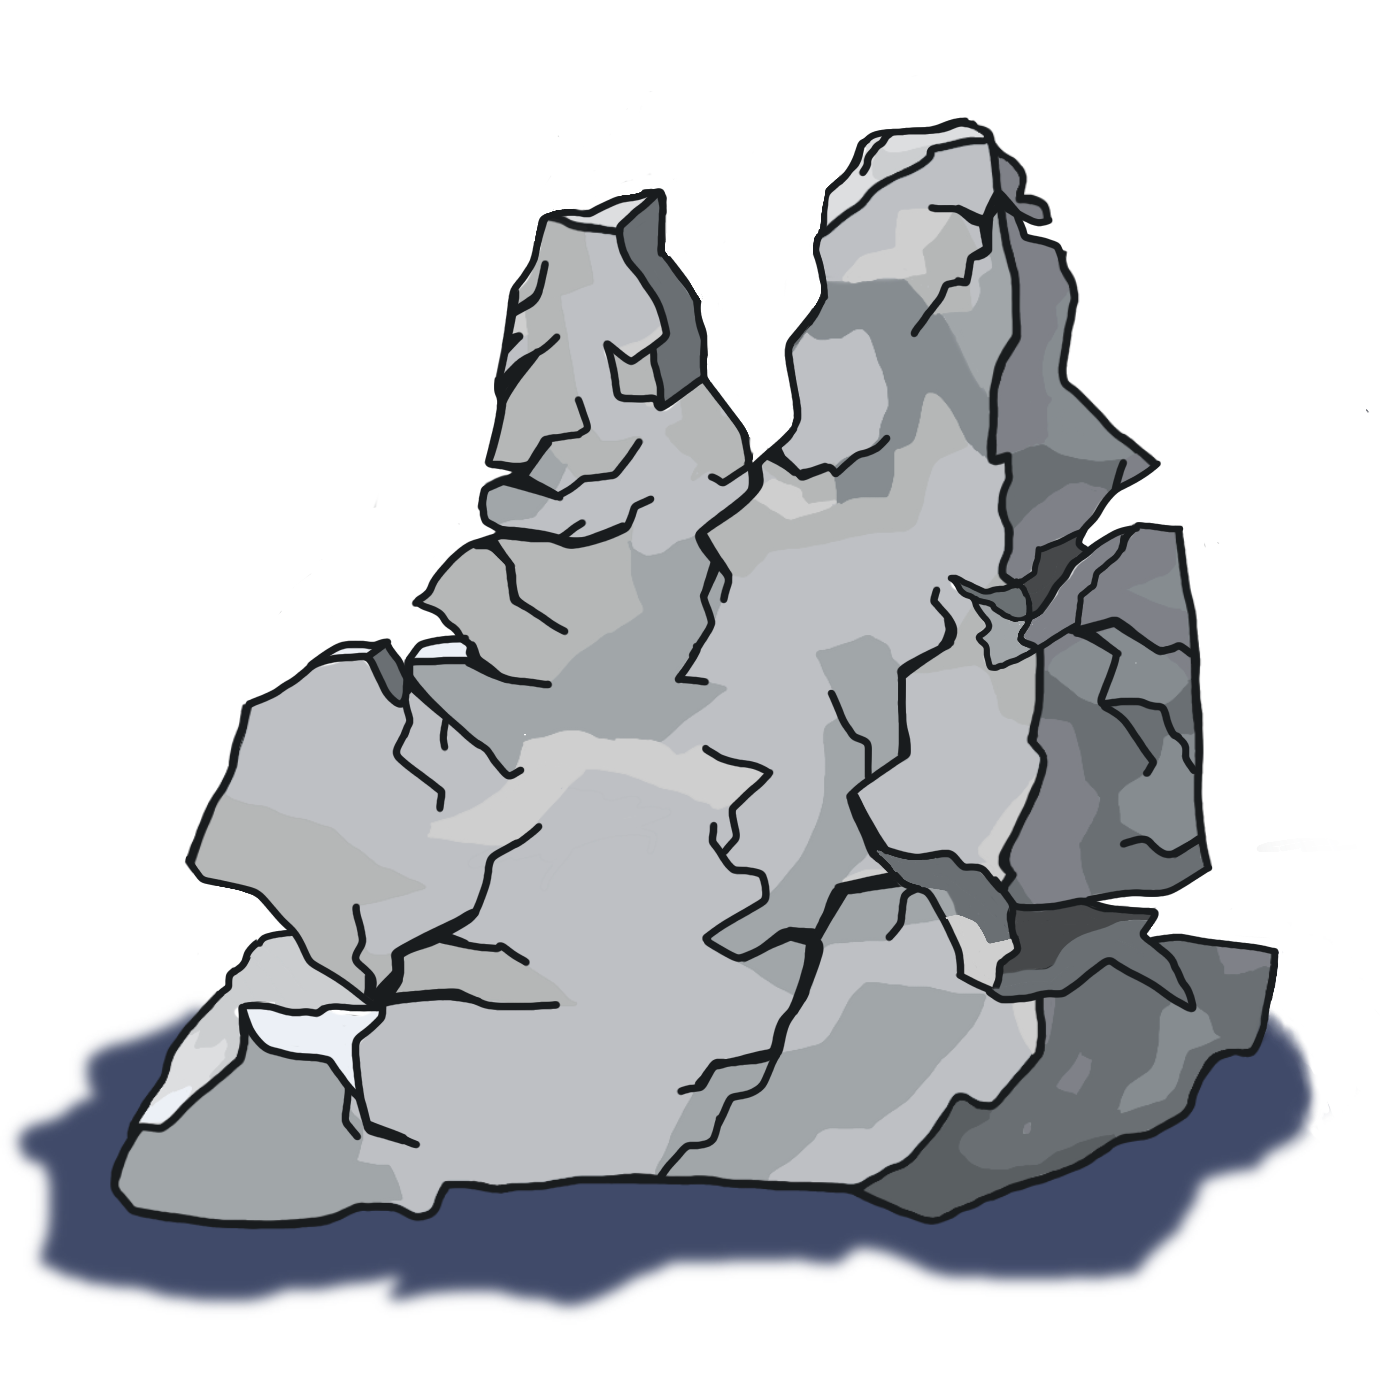
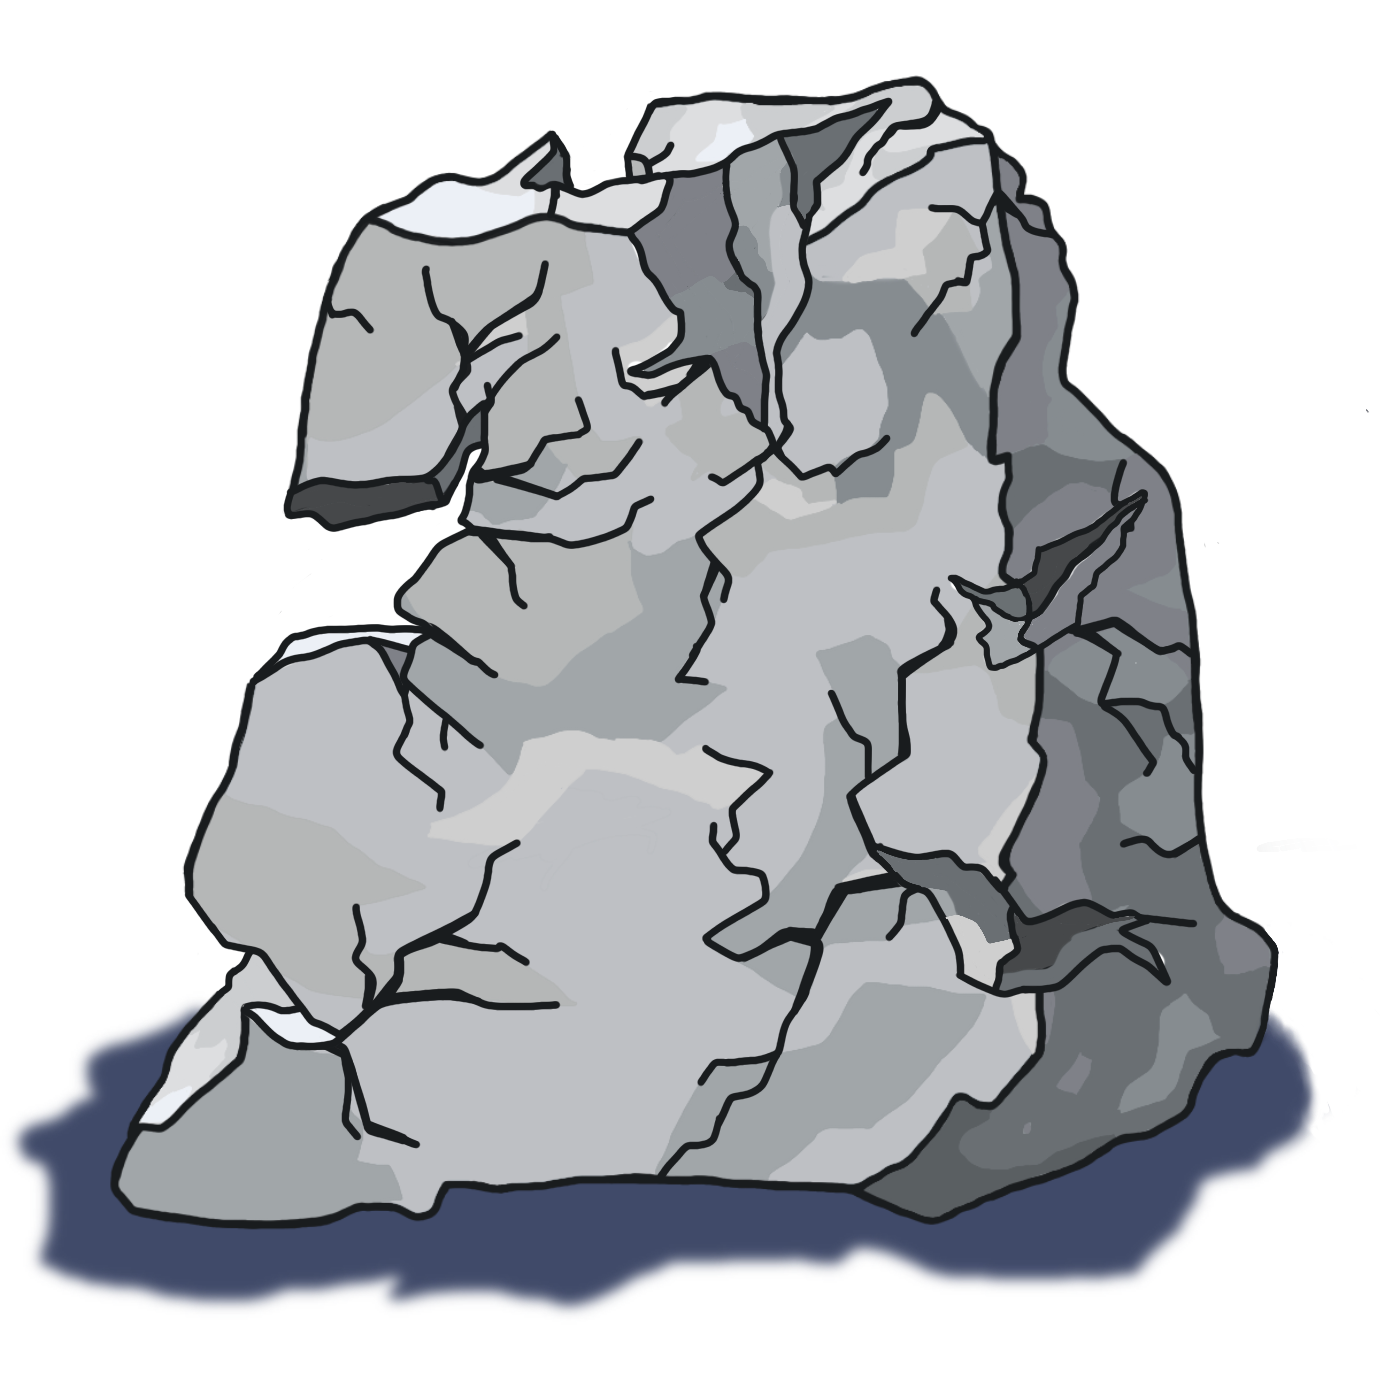
images added!

diff --git a/pages/ProgressPage.tsx b/pages/ProgressPage.tsx
@@ -8,7 +8,20 @@ import NavBar from "../components/NavBar"
 import Summary from "../components/Summary"
 
 // CUSTOM IMAGES
-import rockImage from "../images/rock.png"
+import week1_rock from "../images/rocks/week1.png"
+import week2_rock from "../images/rocks/week2.png"
+import week3_rock from "../images/rocks/week3.png"
+import week4_rock from "../images/rocks/week4.png"
+import week5_rock from "../images/rocks/week5.png"
+import week6_rock from "../images/rocks/week6.png"
+import week7_rock from "../images/rocks/week7.png"
+import week8_rock from "../images/rocks/week8.png"
+import week9_silver_rock from "../images/rocks/week9_silver.png"
+import week9_gold_rock from "../images/rocks/week9_gold.png"
+import week9_diamond_rock from "../images/rocks/week9_diamond.png"
+import silver from "../images/silver.png"
+import gold from "../images/gold.png"
+import diamond from "../images/diamond.png"
 
 // PAGES
 import HelpPage from "./HelpPage"
@@ -46,11 +59,11 @@ import {
 	getWeekNumber,
 } from "../backendFunctions"
 
-export default function ProgressPage({ navigation }: any) {
-  enum RockImage {
-    WEEK0_ROCK = "what"
-  }
+interface ImageObject {
+  [key: string]: string;
+}
 
+export default function ProgressPage({ navigation }: any) {
 	// REDUX
 	const dispatch = useAppDispatch()
 	const currentWeek = useAppSelector(selectCurrentWeek)
@@ -63,6 +76,31 @@ export default function ProgressPage({ navigation }: any) {
 	const currWeekCheck = calculateCurrentWeek(weeks, new Date())
 	const weekNumber = currentWeek === "" ? 0 : getWeekNumber(currentWeek)
 	const goal = calculateGoal(habit.goal, goalDecrement, weekNumber)
+
+	const images: ImageObject = {
+		week0: week1_rock,
+		week1: week2_rock,
+		week2: week3_rock,
+		week3: week4_rock,
+		week4: week5_rock,
+		week5: week6_rock,
+		week6: week7_rock,
+		week7: week8_rock,
+		week8_silver: week9_silver_rock,
+		week8_gold: week9_gold_rock,
+		week8_diamond: week9_diamond_rock,
+		week9_silver: silver,
+		week9_gold: gold,
+		week9_diamond: diamond,
+	}
+
+	function getImageByName(): any {
+		if (weekNumber < 9) {
+			return images[currentWeek]
+		} else {
+			return images[`${currentWeek}_${habit.gem}`]
+		} 
+	}
 
 	// NAVBAR FUNCTIONS
 	const capitalizedHabit = habit.habitName
@@ -86,13 +124,13 @@ export default function ProgressPage({ navigation }: any) {
 		dispatch(resetGoalDecrement())
 		dispatch(setResetTrue())
 		dispatch(resetWeeks())
-		dispatch(resetCurrentWeek())
 		setTimeout(() => {
 			navigation.navigate("CreateHabitLayout", { screen: "EnterHabitPage" })
 		}, 200)
-		setTimeout(() => {
-			dispatch(resetHabit())
-		}, 300)
+    setTimeout(() => {
+      dispatch(resetCurrentWeek())
+      dispatch(resetHabit())
+    }, 1000)
 	}
 
 	// WEEK UPDATE
@@ -114,6 +152,7 @@ export default function ProgressPage({ navigation }: any) {
 			sameWeekCheck()
 		}
 	}, [weeks, currentWeek])
+  console.log(weekNumber)
 
 	return (
 		<View style={styles.progressContainer}>
@@ -142,7 +181,7 @@ export default function ProgressPage({ navigation }: any) {
 							<Summary goal={goal} />
 						</Pressable>
 					</Modal>
-					<Image style={styles.progressRock} source={rockImage} />
+					<Image style={[styles.progressRock, currentWeek === "week9" ? styles.gemRock : {}]} source={getImageByName()} />
 				</Pressable>
 
 				{/* WHAT NOW MODAL */}

diff --git a/pages/QuestionPage.tsx b/pages/QuestionPage.tsx
@@ -141,14 +141,17 @@ function QuestionPage({ navigation }: any) {
 			Alert.alert("Please set a first goal.")
 		} else {
 			// Begin habit button was pressed => set data
-			dispatch(setCurrentWeek(currWeek))
+      dispatch(setCurrentWeek(currWeek))
 			dispatch(setWeeks(calculatedWeeks))
 			dispatch(setGoalDecrement(goalDecrement))
 			dispatch(setInactiveSlider())
 			dispatch(setResetFalse())
 
-			navigation.navigate("TrackHabitLayout", { screen: "ProgressPage" })
+      setTimeout(() => {
+        navigation.navigate("TrackHabitLayout", { screen: "ProgressPage" })
 
+      }, 200)
+      
 			setTimeout(() => {
 				dispatch(setPreviouslyLoaded())
 			}, 1000)

diff --git a/backendFunctions.ts b/backendFunctions.ts
@@ -8,7 +8,7 @@ const DAYS_IN_WEEK = 7
 
 // Sets 9 weeks from current date
 export const calculateWeeks = (currentDate: Date) => {
-	const millisecondsInWeek = MILLISECONDS_IN_SECOND * 20
+	const millisecondsInWeek = MILLISECONDS_IN_SECOND * 10
 	// *
 	// SECONDS_IN_MINUTE *
 	// MINUTES_IN_HOUR *

diff --git a/styles.ts b/styles.ts
@@ -236,6 +236,11 @@ export default StyleSheet.create({
 		height: 350,
 		width: 350,
 	},
+  gemRock: {
+    marginVertical: 90,
+    width: 170,
+		height: 170,
+  },
 
 	// TROVE PAGE
 	troveAchievementList: {
